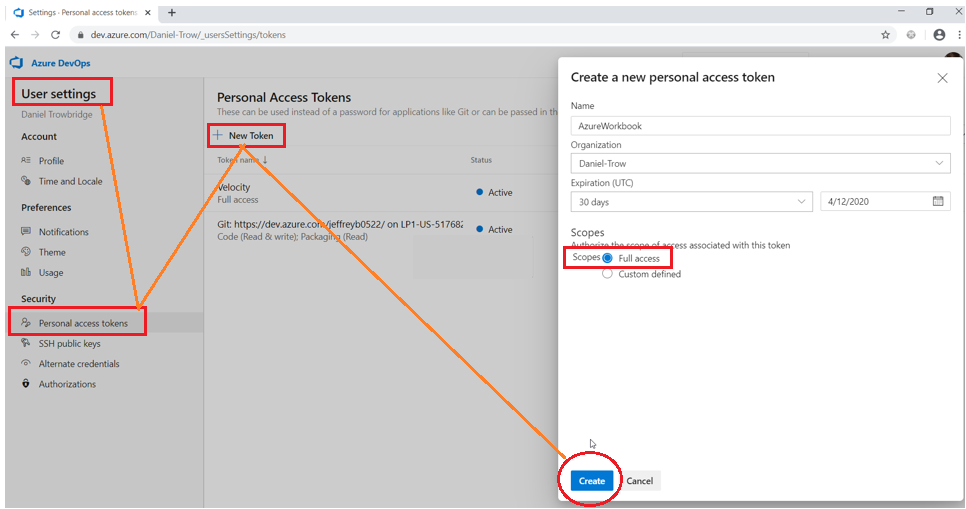
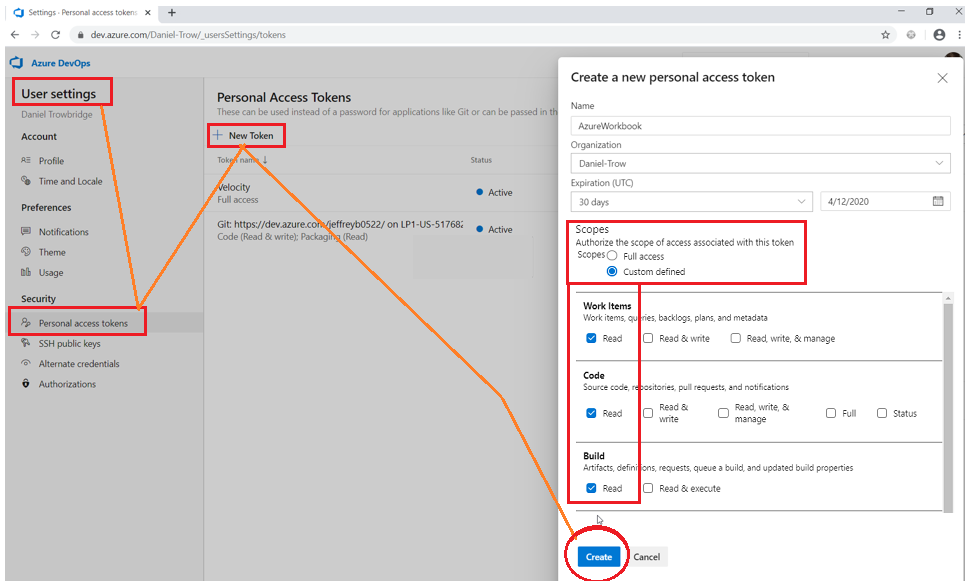
mention swimlanes and insights

diff --git a/workbooks/azureUcdValueStreams.md b/workbooks/azureUcdValueStreams.md
@@ -19,6 +19,8 @@ Workbooks should guide users beyond rote exercise towards exploration and discov
 
 <!-- code_chunk_output -->
   - [Objective](#objective)
+- [Creating an Azure and UrbanCode Deploy (UCD) Value Stream](#creating-an-azure-and-urbancode-deploy-ucd-value-stream)
+  - [Objective](#objective)
   - [Workbook Guidelines](#workbook-guidelines)
 - [1. Setup Azure](#1-setup-azure)
   - [1.1 Create Workbook Project](#11-create-workbook-project)
@@ -70,12 +72,15 @@ Workbooks should guide users beyond rote exercise towards exploration and discov
 
 # 1. Setup Azure
 
-Requirements: 
-  1. Azure account with ability to create a new project.
+For this workbook, you will need an Azure project with the following:
 
-For this workbook, you will need an Azure project with work items, an Azure git repository, and a build pipeline that creates repository tags whens it runs. **The Azure project name must match you UCD application name.** You will also need an Azure access token. The following steps demonstrate the minimum setup.
+- **An Azure project name that must match your UCD application name.**
+- Work items (Agile board with first two columns being "New" and "Active")
+- An Azure repos git repository
+- A build pipeline that creates repository tags whens it runs. 
+- An Azure access token with read access to all of the above (work items, git repo, and builds)
 
-(🔀 Alternative: See how far you can get with an existing project and/or repository)
+> The rest of section 1 covers the bare minimum setup. If you already have the above setup or feel comfortable setting it up feel free to skip to section 2 and start configuring UCD, but note that the workbook assumes an Azure project name of "AzureWorkbook". If your project name is different, you will need to name your UCD application accordingly.
 
 ## 1.1 Create Workbook Project 
 
@@ -128,13 +133,26 @@ We also want an Azure pipeline in this workbook to represent our build step. We 
 
 Navigate to `https://dev.azure.com/<your org name>/_usersSettings/tokens`. Learn more about Azure Access tokens at [https://docs.microsoft.com/en-us/azure/devops/organizations/accounts/use-personal-access-tokens-to-authenticate](https://docs.microsoft.com/en-us/azure/devops/organizations/accounts/use-personal-access-tokens-to-authenticate)
 
-Create a new token. Give it a reasonable name an expiration date for your usage. The easiest option is to select "Full Access". Make sure to copy and save your key (you'll need it later in Velocity).
+Create a new token. Give it a reasonable name and expiration date. The minimal scope is read access to "Work Items", "Code", and "Build". Make sure to copy and save your key (you'll need it later in Velocity).
 
 ![](azure/access-token-2.png)
 
 # 2. Setup UCD
 
-UCD should already be setup with an agent. We will setup a component and application for this workbook.
+UCD requirements are as follows:
+
+  - At least one agent
+  - At least one component with the following:
+    - Component configured to get versions from the Azure repository (git source, watch for tags, import versions automatically)
+    - Component must have a deploy process
+  - An application with the following:
+    - Named the same as the Azure project (this workbook uses the name "AzureWorkbook")
+    - Application must have an install process for component above
+    - The application should have three environments that we can deploy to. These will map to DEV, QA, and PROD.
+  - A UCD user access token
+
+
+If you already have the above setup or feel comfortable setting it up on your own please feel free to skip to section 3 to start setting up Velocity. The rest of section 2 presents the bare minimum setup in UCD assuming we already have an agent.
 
 ## 2.1 Create Workbook Component
 
@@ -512,9 +530,17 @@ Click on the "+" icon under each environment to map a UCD environment to the Vel
 
 Shew, that was a lot of setup. Now let's get that dot moving!
 
+> **Explore**: Each step shows a value stream screenshot of the dot in a stage, but don't let your exploration stop there! As you go through this workbook take a look around. The "Swim Lanes" view is automatically configured as part of the value stream. It provides an assigned user view all the way from backlog to PROD. Poke around more and you'll find that Insights is already at work gathering data like build and deployment counts as we proceed.
+> ![](AzureValueStream/swimlanes-prod.png)
+> ![](AzureValueStream/insights.png)
+
+
+---
+
 > **Pro Tip**: We're about to do a lot of external activity to Velocity. To speed things up, you can force Velocity integrations to sync by clicking disable/enable every time we change an external state (like create a work item or merge a PR)
 >
 > ![](AzureValueStream/integration-sync.png)
+
 
 
 ## 4.1 Backlog
@@ -650,4 +676,3 @@ From Velocity, go to our pipeline. Click the play icon for QA. Give it time to r
 Finally, you can choose either between UCD or the Velocity pipeline to deploy the snapshot to PROD. Wait for Velocity to sync and the dot will move to PROD. We have completed the value stream at this point from planning to production. 👏
 
 ![](AzureValueStream/dot-prod.png)
-
